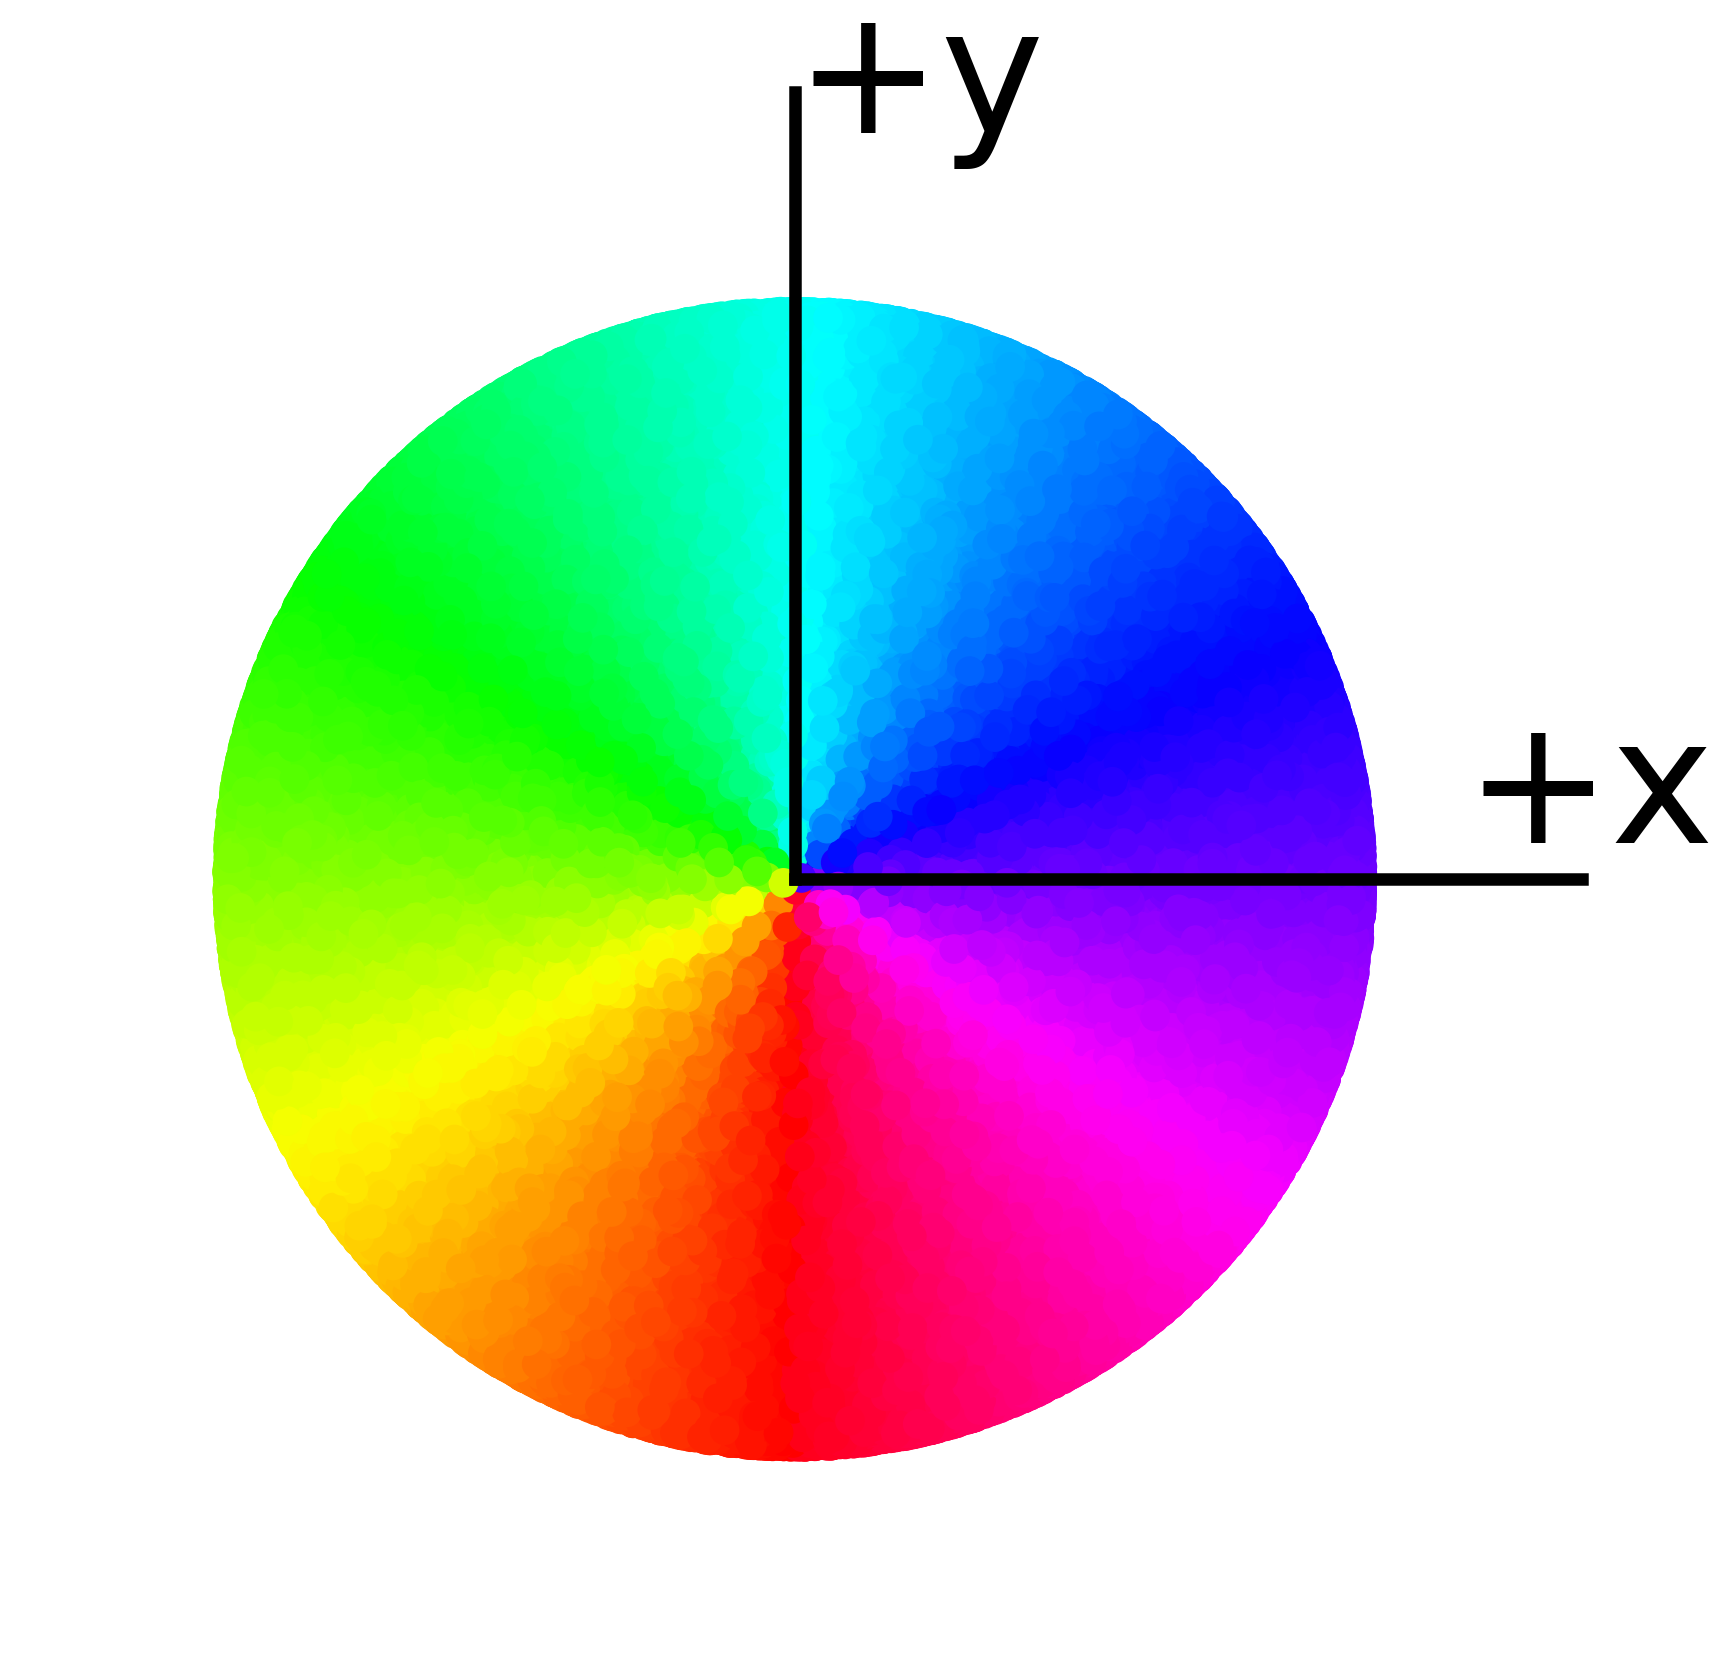
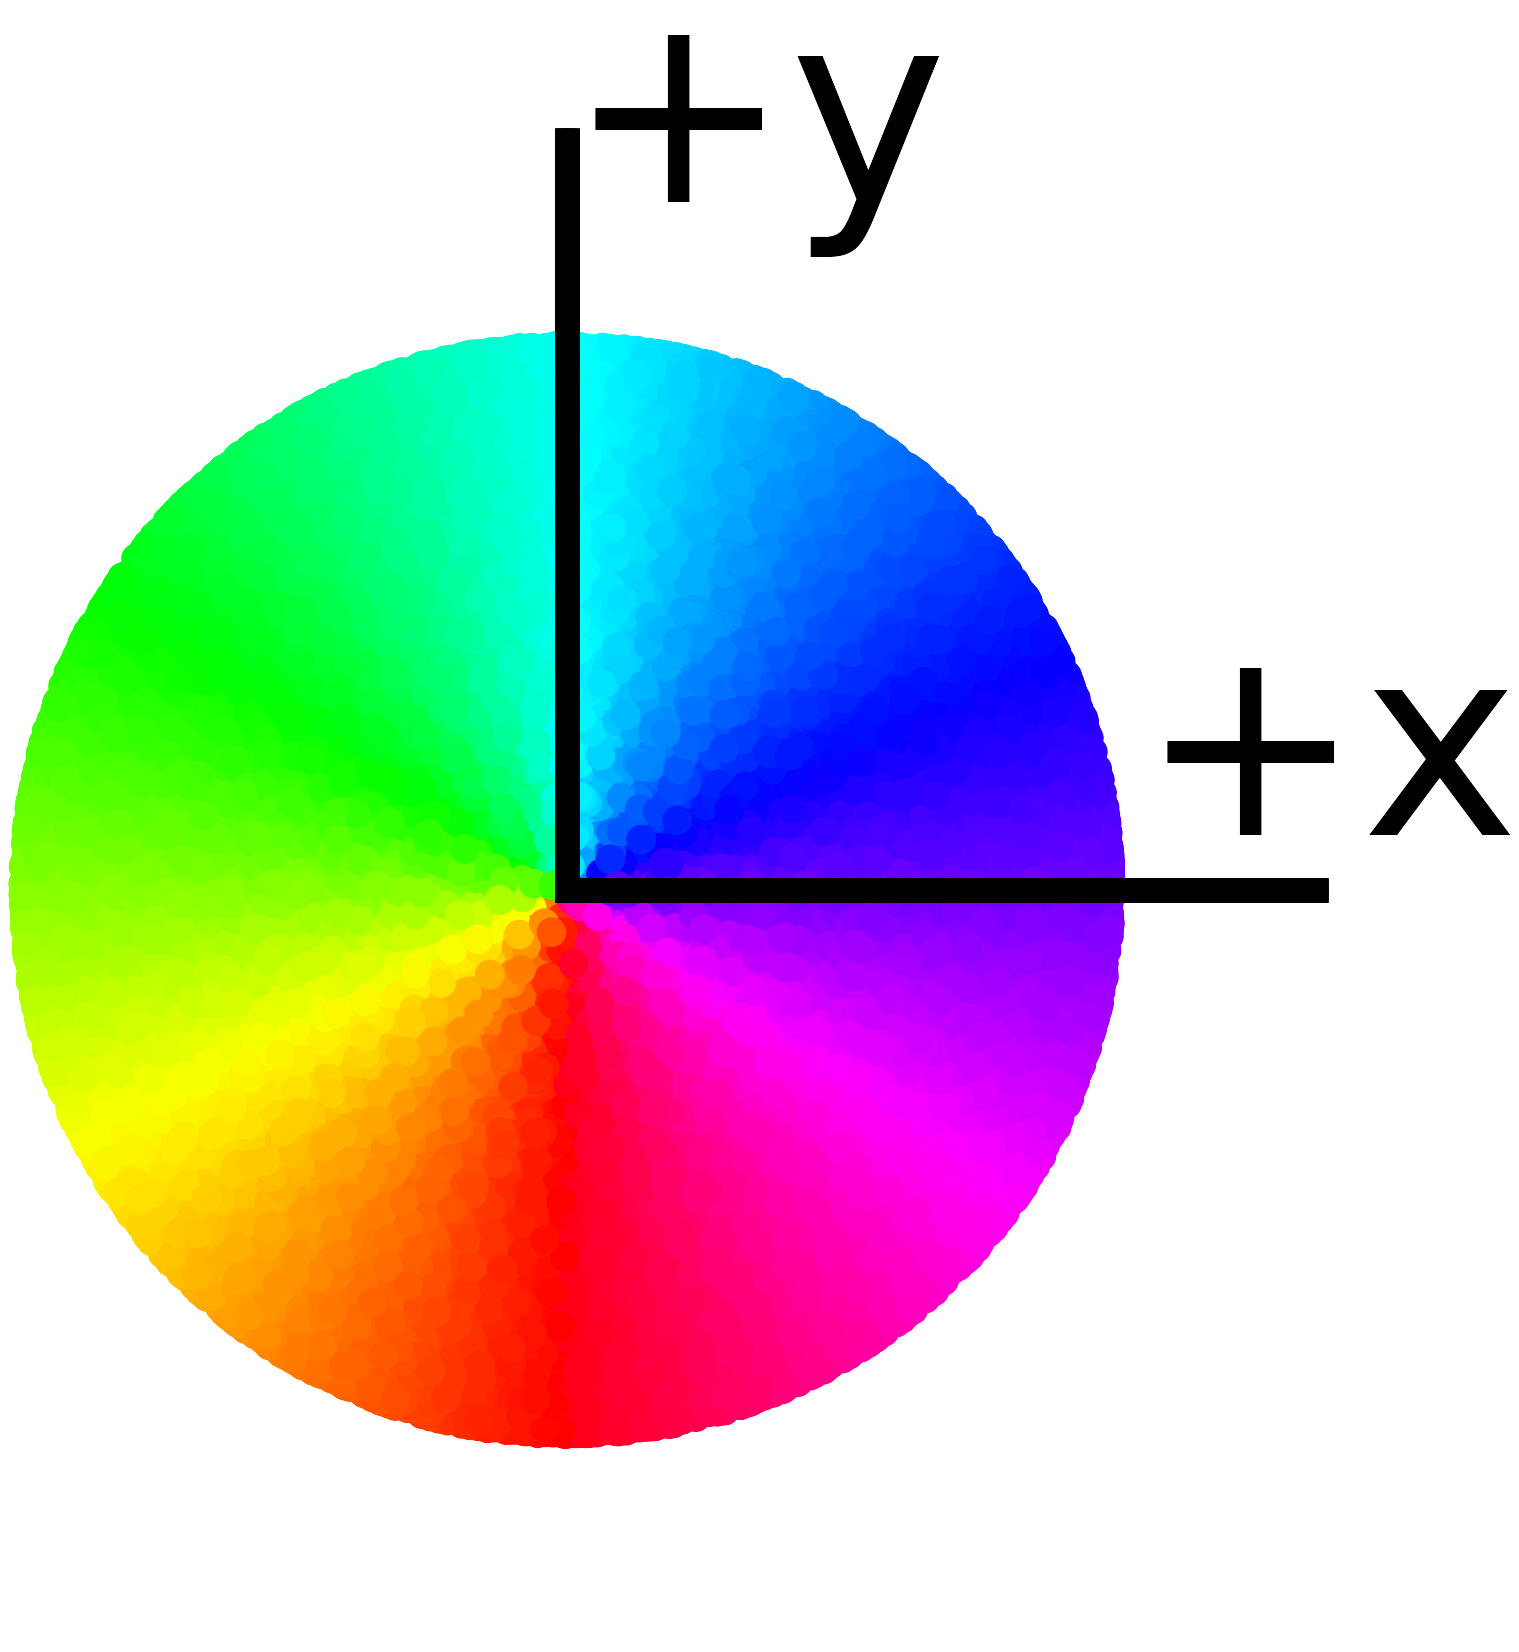
Enlarge colorbar and colorwheel font_size

diff --git a/common/figure.py b/common/figure.py
@@ -31,52 +31,43 @@ def save_offline_render(scene: Scene, scene_config: dict, filename: str, to_plot
 
 
 def save_colorbar(save_path, vmin=0, vmax=105):
-    fig, ax = plt.subplots(figsize=(1, 16))
+    fig, ax = plt.subplots(figsize=(1, 13))
     fig.subplots_adjust(bottom=0.5)
 
     cmap = plt.get_cmap('hot') # type: ignore
     norm = plt.Normalize(vmin=vmin, vmax=vmax) # type: ignore
     cb = fig.colorbar(plt.cm.ScalarMappable(norm=norm, cmap=cmap), # type: ignore
                       cax=ax, orientation='vertical')
-    # cb.set_label('Difference')
-
-    plt.savefig(save_path, dpi=300, bbox_inches='tight')
+    cb.ax.tick_params(labelsize=28)
+    plt.savefig(save_path, dpi=300, bbox_inches='tight', pad_inches=0, transparent=True)
     plt.close(fig)
 
 
 def save_color_wheel(save_path):
     fig, ax = plt.subplots(figsize=(6, 6), subplot_kw=dict(projection='polar'))
 
-    # 创建色轮数据
     n_points = 100000
     theta = np.random.uniform(0, 2*np.pi, n_points)
     radii = np.sqrt(np.random.uniform(0, 1, n_points)) / 1.4  # 使用平方根分布来确保均匀填充
-
-    # 调整 theta 以匹配梯度方向的计算
     adjusted_theta = (-theta + np.pi/2 * 3) % (2*np.pi)
 
-    # 创建颜色映射
     colors = plt.cm.hsv(adjusted_theta / (2*np.pi))
 
-    # 绘制实心色球
     circles = CircleCollection(sizes=[40]*n_points, offsets=list(zip(theta, radii)),
                                transOffset=ax.transData, facecolors=colors, edgecolors='none')
     ax.add_collection(circles)
 
-    # 设置绘图范围
     ax.set_ylim(0, 1)
 
-    # 移除所有刻度线和网格线
     ax.set_yticks([])
     ax.set_xticks([])
 
-    # 手动绘制更粗的轴线
-    ax.plot([0, 0], [0, 0.99], color='black', linewidth=3)  # x轴
-    ax.plot([np.pi/2, np.pi/2], [0, 0.99], color='black', linewidth=3)  # y轴
+    ax.plot([0, 0], [0, 0.99], color='black', linewidth=6)  # x轴
+    ax.plot([np.pi/2, np.pi/2], [0, 0.99], color='black', linewidth=6)  # y轴
 
-    # 手动添加 x 和 y 标签
-    ax.text(0, 1, '+x', ha='center', va='bottom', fontsize=42)
-    ax.text(np.pi/2, 1, '+y', ha='left', va='center', fontsize=42)
+    font_size = 64
+    ax.text(0, 1, '+x', ha='center', va='bottom', fontsize=font_size)
+    ax.text(np.pi/2, 1, '+y', ha='left', va='center', fontsize=font_size)
 
     ax.set_frame_on(False)
     ax.xaxis.set_visible(False)

diff --git a/image_compare.py b/image_compare.py
@@ -174,14 +174,20 @@ def print_csv(all_metrics):
             print(','.join(row))
 
 
-base_path = os.path.join(os.getcwd(), "images", "Light_wooden_frame_room_2k.hdr", "geometry")
-file_types = ['MLP', 'Siren', 'Octree']
-num_threshold = 10
-grad_threshold = 15
-intensity = 4  # intensity for gradient difference visualization
+# base_path = os.path.join(os.getcwd(), "images", "Light_wooden_frame_room_2k.hdr", "geometry")
+# file_types = ['MLP', 'Siren', 'Octree']
+# num_threshold = 10
+# grad_threshold = 15
+# intensity = 4  # intensity for gradient difference visualization
 
-all_metrics = process_all_images(base_path, file_types, num_threshold, grad_threshold, intensity)
-print_csv(all_metrics)
+# all_metrics = process_all_images(base_path, file_types, num_threshold, grad_threshold, intensity)
+# print_csv(all_metrics)
 
-# save_path = os.path.join(os.getcwd(), "images", "color_wheel.png")
-# save_color_wheel(save_path)
+
+## Save color wheel
+save_path = os.path.join(os.getcwd(), "images", "color_wheel.png")
+save_color_wheel(save_path)
+
+## Save colorbar
+# save_path = os.path.join(os.getcwd(), "images", "hot_colorbar.png")
+# save_colorbar(save_path, vmin=0, vmax=105)
